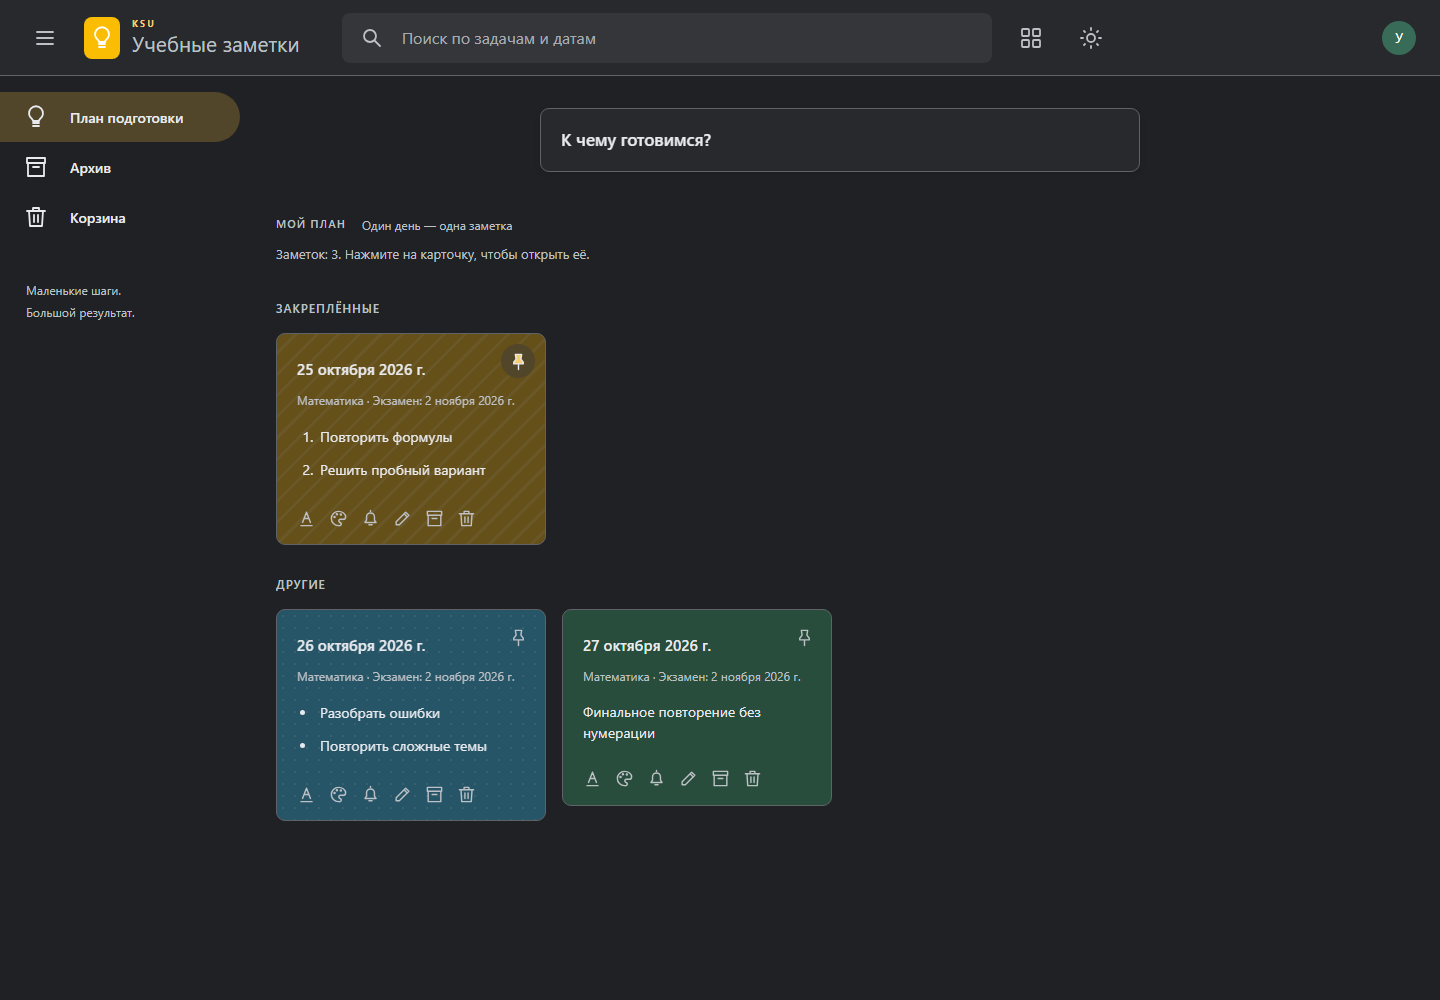
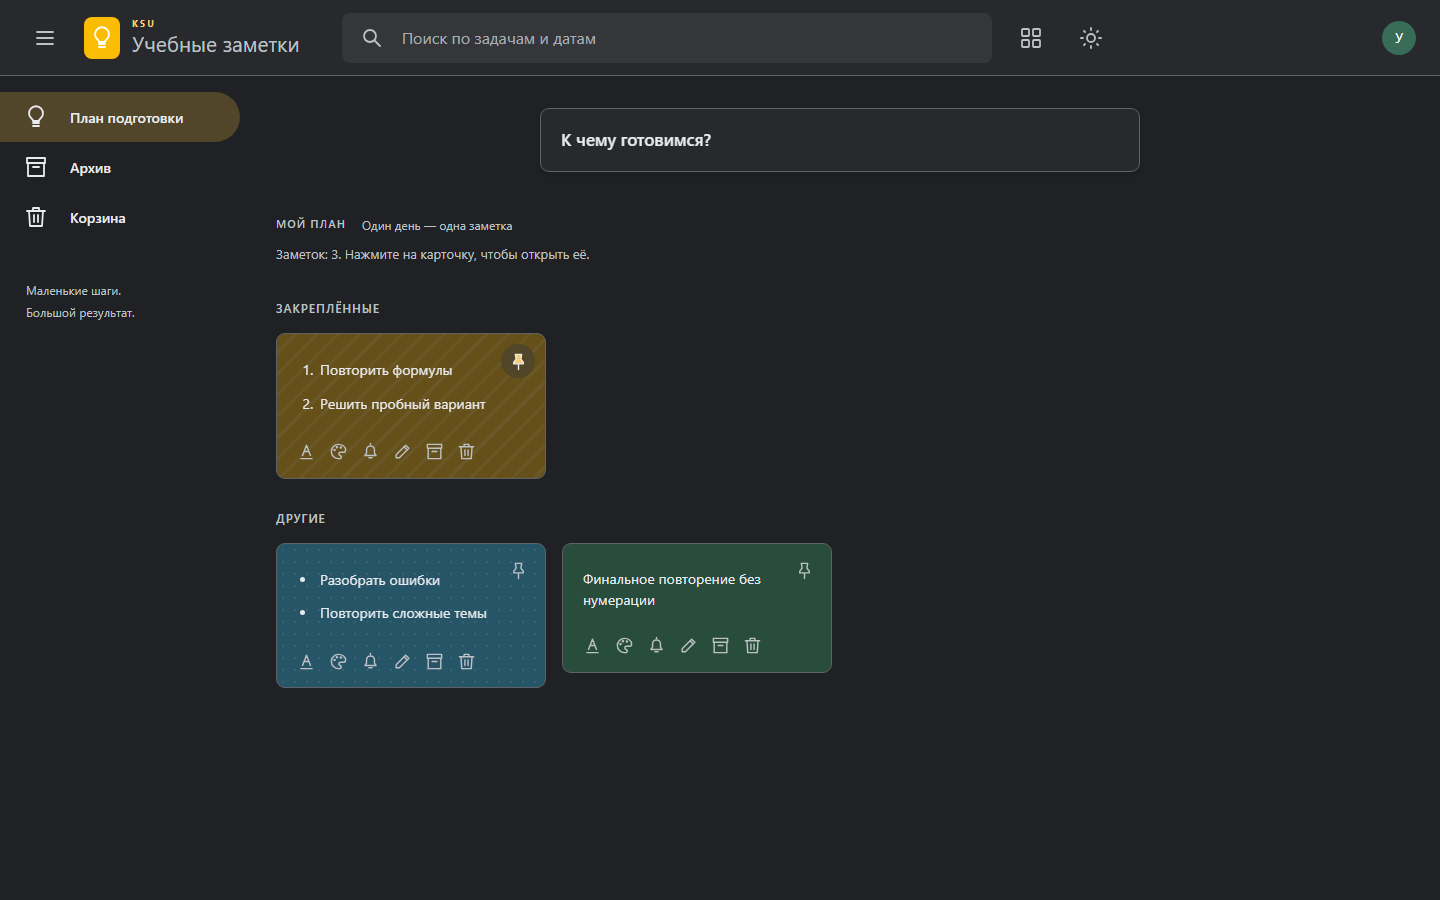
Актуализировано описание и превью

diff --git a/README.md b/README.md
@@ -17,7 +17,8 @@
 
 ## Возможности
 
-- равномерное распределение задач до даты экзамена;
+- быстрые заметки без обязательного предмета и даты;
+- равномерное распределение задач, если указана дата экзамена;
 - обычный текст, нумерованные и маркированные списки;
 - автоматическое продолжение `1.`, `2.`, `3.` или маркера `-` при нажатии Enter;
 - автоматическое сохранение изменений заметки;
@@ -42,13 +43,13 @@ Start-Process .\keep.html
 
 ## Как пользоваться
 
-1. Наведите курсор или нажмите на карточку «К чему готовимся?», чтобы раскрыть форму.
-2. Введите название экзамена и будущую дату.
-3. Добавьте текст заметки. Для списка начните строку с `1.` или `-`.
-4. Нажмите «Составить план».
+1. Нажмите на слова «К чему готовимся?», чтобы раскрыть форму.
+2. Введите текст заметки. Предмет и дата экзамена необязательны.
+3. Для списка начните строку с `1.` или `-`.
+4. Нажмите «Составить план» или щёлкните вне заполненной формы.
 5. Откройте карточку, чтобы изменить текст, оформление или напоминание.
 
-Корректные изменения в открытой заметке сохраняются автоматически. Отдельная кнопка сохранения не требуется.
+Если щёлкнуть вне пустой формы, она свернётся без создания заметки. Заполненная форма сохранится автоматически. Корректные изменения в открытой заметке тоже сохраняются без отдельной кнопки.
 
 ## Ввод списков
 
@@ -73,10 +74,12 @@ ksu-study-planner/
 ├── keep.html          # интерфейс
 ├── keep.css           # темы, сетка и анимации
 ├── keep.js            # поиск, тема и боковое меню
-├── script.js          # создание и распределение задач
+├── planner-core.js    # даты, списки и распределение задач
+├── script.js          # состояние формы и создание заметок
 ├── notes.js           # редактор, архив и корзина
 ├── note-tools.js      # оформление и напоминания
 ├── note-tools.css     # редактор и всплывающие панели
+├── profile.js         # локальное имя и аватар
 └── docs/preview.png   # скриншот проекта
 ```
 
@@ -89,6 +92,8 @@ ksu-study-planner/
 ## Ручная проверка
 
 - создать заметку с обычным текстом и убедиться, что номера не появились;
+- закрыть пустую форму кликом вне неё и сохранить заполненную тем же действием;
+- создать заметку без предмета и убедиться, что пустой заголовок не отображается;
 - создать списки с `1.` и `-`, проверить автоматическое продолжение;
 - открыть заметку, изменить текст и перезагрузить страницу;
 - переместить архивную заметку в корзину и восстановить её в основной план;
